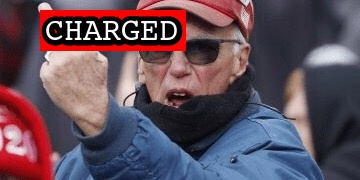
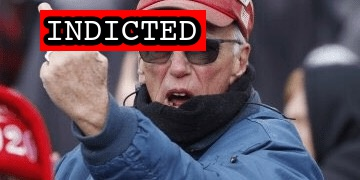
Latst import

Changed region(s): [[0.0917, 0.0278, 0.5806, 0.3056]]

diff --git a/commands/suspect-import.ts b/commands/suspect-import.ts
@@ -515,6 +515,7 @@ const linkType = (description: string, lastName?: string) => {
     case /Government's Omnibus Opposition to Defendants' Motions for Release from Custody/.test(description):
     case /Government Opposition to Motion for Reconsideration of Motion for Conditional Release/.test(description):
     case /Government Opposition to Motion for Reconsideration of Revocation of Bond/.test(description):
+    case /Government Opposition to Motion for Reconsideration of Pretrial Detention/.test(description):
       return "Government Opposition to Reconsideration of Release";
 
     case /Supplement to Government's Opposition to Defendant's Motion for Conditional Release/.test(description):
@@ -578,6 +579,7 @@ const linkType = (description: string, lastName?: string) => {
     case /Defense Motion for Reconsideration of Bond/.test(description):
     case /Motion to Reopen Detention Hearing and for Release on Conditions/.test(description):
     case /Defense Motion for Reconsideration of Revocation of Bond/.test(description):
+    case /Defense Motion for Reconsideration of Pretrial Detention/.test(description):
       return "Defense Motion for Reconsideration of Release";
 
     case /Defendant's Motion for a Bill of Particulars/.test(description):
@@ -613,6 +615,7 @@ const linkType = (description: string, lastName?: string) => {
 
     case /Defense Reply to Opposition to Motion for Release from Custody/.test(description):
     case /Defense Reply to Opposition to Motion for Conditional Release/.test(description):
+    case /Defense Reply to Government Opposition to Motion for Reconsideration of Pretrial Detention/.test(description):
       return "Defense Reply to Opposition to Motion for Release from Custody";
 
     case /Defense Response to Motion for Appeal of Release Order/.test(description):

diff --git a/docs/_suspects/david-blair.md b/docs/_suspects/david-blair.md
@@ -34,14 +34,15 @@ published: true
 caseNumber: 1:21-cr-186
 videos:
 charges:
-  - code: 18 USC § 231(a)(3)
-    title: Civil Disorder
-    url: https://www.law.cornell.edu/uscode/text/18/231
-    felony: true
+- code: 18 USC § 231(a)(3)
+  title: Civil Disorder
+  url: https://www.law.cornell.edu/uscode/text/18/231
+  felony: true
 sentence:
 ---
-
 - [News Report](https://www.baltimoresun.com/news/crime/bs-md-ci-cr-blair-capitol-search-warrant-20210202-x4uzotfxhng5ddglhnl5npeonu-story.html)
 - [Complaint](https://extremism.gwu.edu/sites/g/files/zaxdzs2191/f/David%20Blair%20Criminal%20Complaint.pdf)
-- [Statement of Facts](https://www.justice.gov/usao-dc/case-multi-defendant/file/1371291/download)
+- [Statement of Facts](https://www.justice.gov/usao-dc/case-multi-defendant/file/1488286/download)
 - [Indictment](https://www.justice.gov/usao-dc/case-multi-defendant/file/1377671/download)
+- [DOJ Press Release (Guilty Plea)](https://www.justice.gov/usao-dc/pr/maryland-man-pleads-guilty-felony-charge-offenses-committed-during-jan-6-capitol-breach)
+- [Plea Agreement](https://www.justice.gov/usao-dc/case-multi-defendant/file/1488281/download)

diff --git a/docs/_suspects/joshua-portlock.md b/docs/_suspects/joshua-portlock.md
@@ -4,10 +4,10 @@ lastName: Portlock
 hashtag: ProudBoyCowboy
 aka:
 residence: Tennessee
-status: Charged
+status: Indicted
 date: 2021-10-28
 charged: 2021-10-28
-indicted:
+indicted: 2022-03-04
 convicted:
 sentenced:
 dismissed:
@@ -16,7 +16,7 @@ plea_hearing:
 sentencing:
 age:
 occupation:
-affiliations:
+affiliations: Proud Boys
 jurisdiction: Federal
 image: /images/preview/joshua-portlock.png
 suspect: joshua-portlock.png
@@ -36,7 +36,9 @@ videos:
 charges:
 sentence:
 ---
+
 - [News Report](https://www.tennessean.com/story/news/crime/2021/11/04/joshua-john-portlock-tennessee-arrested-january-6-capitol-riot/6279607001/)
 - [Statement of Facts](https://www.justice.gov/usao-dc/case-multi-defendant/file/1446266/download)
 - [Complaint](https://www.justice.gov/usao-dc/case-multi-defendant/file/1446271/download)
 - [Arrest (VIDEO)](https://www.wsmv.com/news/man-arrested-in-smyrna-for-january-6-capitol-riots/article_456b3068-3cdc-11ec-abff-d7d8c604b6c7.html)
+- [Indictment](https://extremism.gwu.edu/sites/g/files/zaxdzs2191/f/Joshua%20John%20Portlock%20Indictment.pdf)

diff --git a/docs/_suspects/patrick-king.md b/docs/_suspects/patrick-king.md
@@ -1,0 +1,41 @@
+---
+name: Patrick King
+lastName: King
+hashtag:
+aka:
+residence:
+status: Charged
+date: 2022-03-15
+charged: 2022-03-15
+indicted:
+convicted:
+sentenced:
+dismissed:
+deceased:
+plea_hearing:
+sentencing:
+age:
+occupation:
+affiliations:
+jurisdiction: Federal
+image: /images/preview/patrick-king.jpg
+suspect: patrick-king.jpg
+booking:
+courtroom:
+courthouse:
+raid:
+perpwalk:
+quote:
+title: Patrick King charged on March 15th, 2022
+description: Click for latest case details. Suspects innocent until proven guilty.
+author: seditiontrack
+layout: suspect
+published: false
+caseNumber: 1:22-mj-63
+videos:
+charges:
+sentence:
+---
+- [News Report]()
+- [Complaint](https://www.justice.gov/usao-dc/case-multi-defendant/file/1488261/download)
+- [Statement of Facts](https://www.justice.gov/usao-dc/case-multi-defendant/file/1488266/download)

diff --git a/docs/_suspects/brian-jones.md b/docs/_suspects/brian-jones.md
@@ -1,0 +1,41 @@
+---
+name: Brian Jones
+lastName: Jones
+hashtag:
+aka:
+residence:
+status: Charged
+date: 2022-03-15
+charged: 2022-03-15
+indicted:
+convicted:
+sentenced:
+dismissed:
+deceased:
+plea_hearing:
+sentencing:
+age:
+occupation:
+affiliations:
+jurisdiction: Federal
+image: /images/preview/brian-jones.jpg
+suspect: brian-jones.jpg
+booking:
+courtroom:
+courthouse:
+raid:
+perpwalk:
+quote:
+title: Brian Jones charged on March 15th, 2022
+description: Click for latest case details. Suspects innocent until proven guilty.
+author: seditiontrack
+layout: suspect
+published: false
+caseNumber: 1:22-mj-63
+videos:
+charges:
+sentence:
+---
+- [News Report]()
+- [Complaint](https://www.justice.gov/usao-dc/case-multi-defendant/file/1488271/download)
+- [Statement of Facts](https://www.justice.gov/usao-dc/case-multi-defendant/file/1488276/download)

diff --git a/docs/_suspects/jonathan-mellis.md b/docs/_suspects/jonathan-mellis.md
@@ -40,3 +40,5 @@ sentence:
 - [News Report](https://www.washingtontimes.com/news/2021/feb/16/capitol-raider-boasted-facebook-proudly-storming-c/)
 - [Statement of Facts](https://www.justice.gov/usao-dc/case-multi-defendant/file/1371456/download)
 - [Indictment](https://www.justice.gov/usao-dc/case-multi-defendant/file/1377796/download)
+- [Defense Motion for Reconsideration of Release](https://extremism.gwu.edu/sites/g/files/zaxdzs2191/f/Jonathan%20Gennaro%20Mellis%20Defense%20Motion%20for%20Reconsideration%20of%20Pretrial%20Detention.pdf)
+- [Government Opposition to Reconsideration of Release](https://extremism.gwu.edu/sites/g/files/zaxdzs2191/f/Jonathan%20Gennaro%20Mellis%20Defense%20Reply%20to%20Government%20Opposition%20to%20Motion%20for%20Reconsideration%20of%20Pretrial%20Detention.pdf)

diff --git a/docs/_suspects/avery-maccracken.md b/docs/_suspects/avery-maccracken.md
@@ -4,10 +4,10 @@ lastName: MacCracken
 hashtag: CoveredDragon
 aka:
 residence: Colorado
-status: Charged
+status: Indicted
 date: 2021-12-10
 charged: 2021-12-10
-indicted:
+indicted: 2022-01-12
 convicted:
 sentenced:
 dismissed:
@@ -36,5 +36,7 @@ videos:
 charges:
 sentence:
 ---
+
 - [News Report](https://www.9news.com/article/news/crime/telluride-man-accused-capitol-riot/73-0099c000-279e-4152-83c8-1acd8da7e0ec)
 - [Statement of Facts](https://www.justice.gov/usao-dc/case-multi-defendant/file/1478566/download)
+- [Indictment](https://extremism.gwu.edu/sites/g/files/zaxdzs2191/f/Avery%20MacCracken%20Indictment.pdf)
